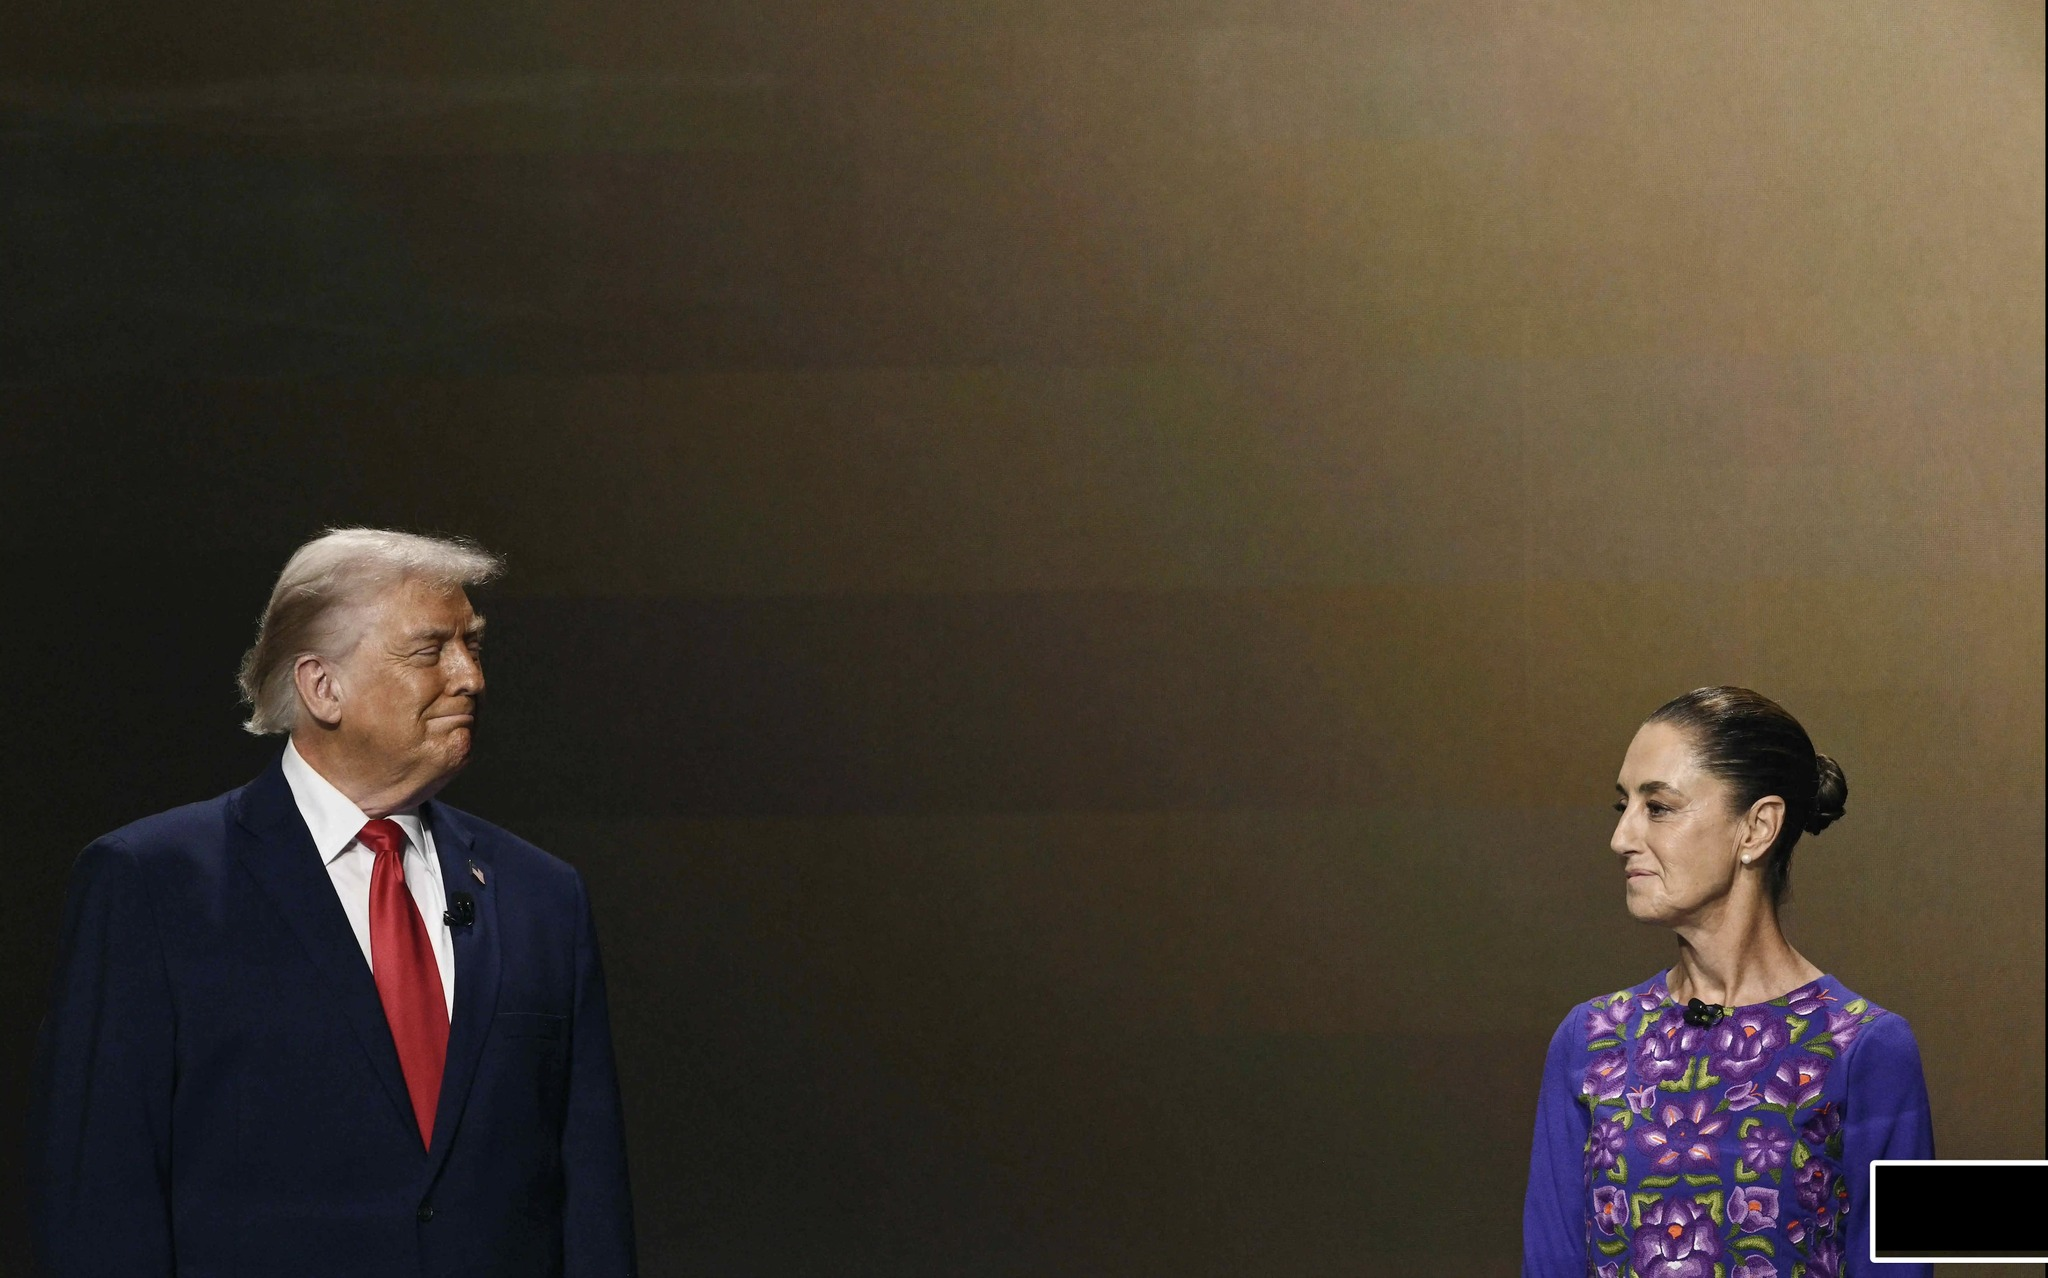
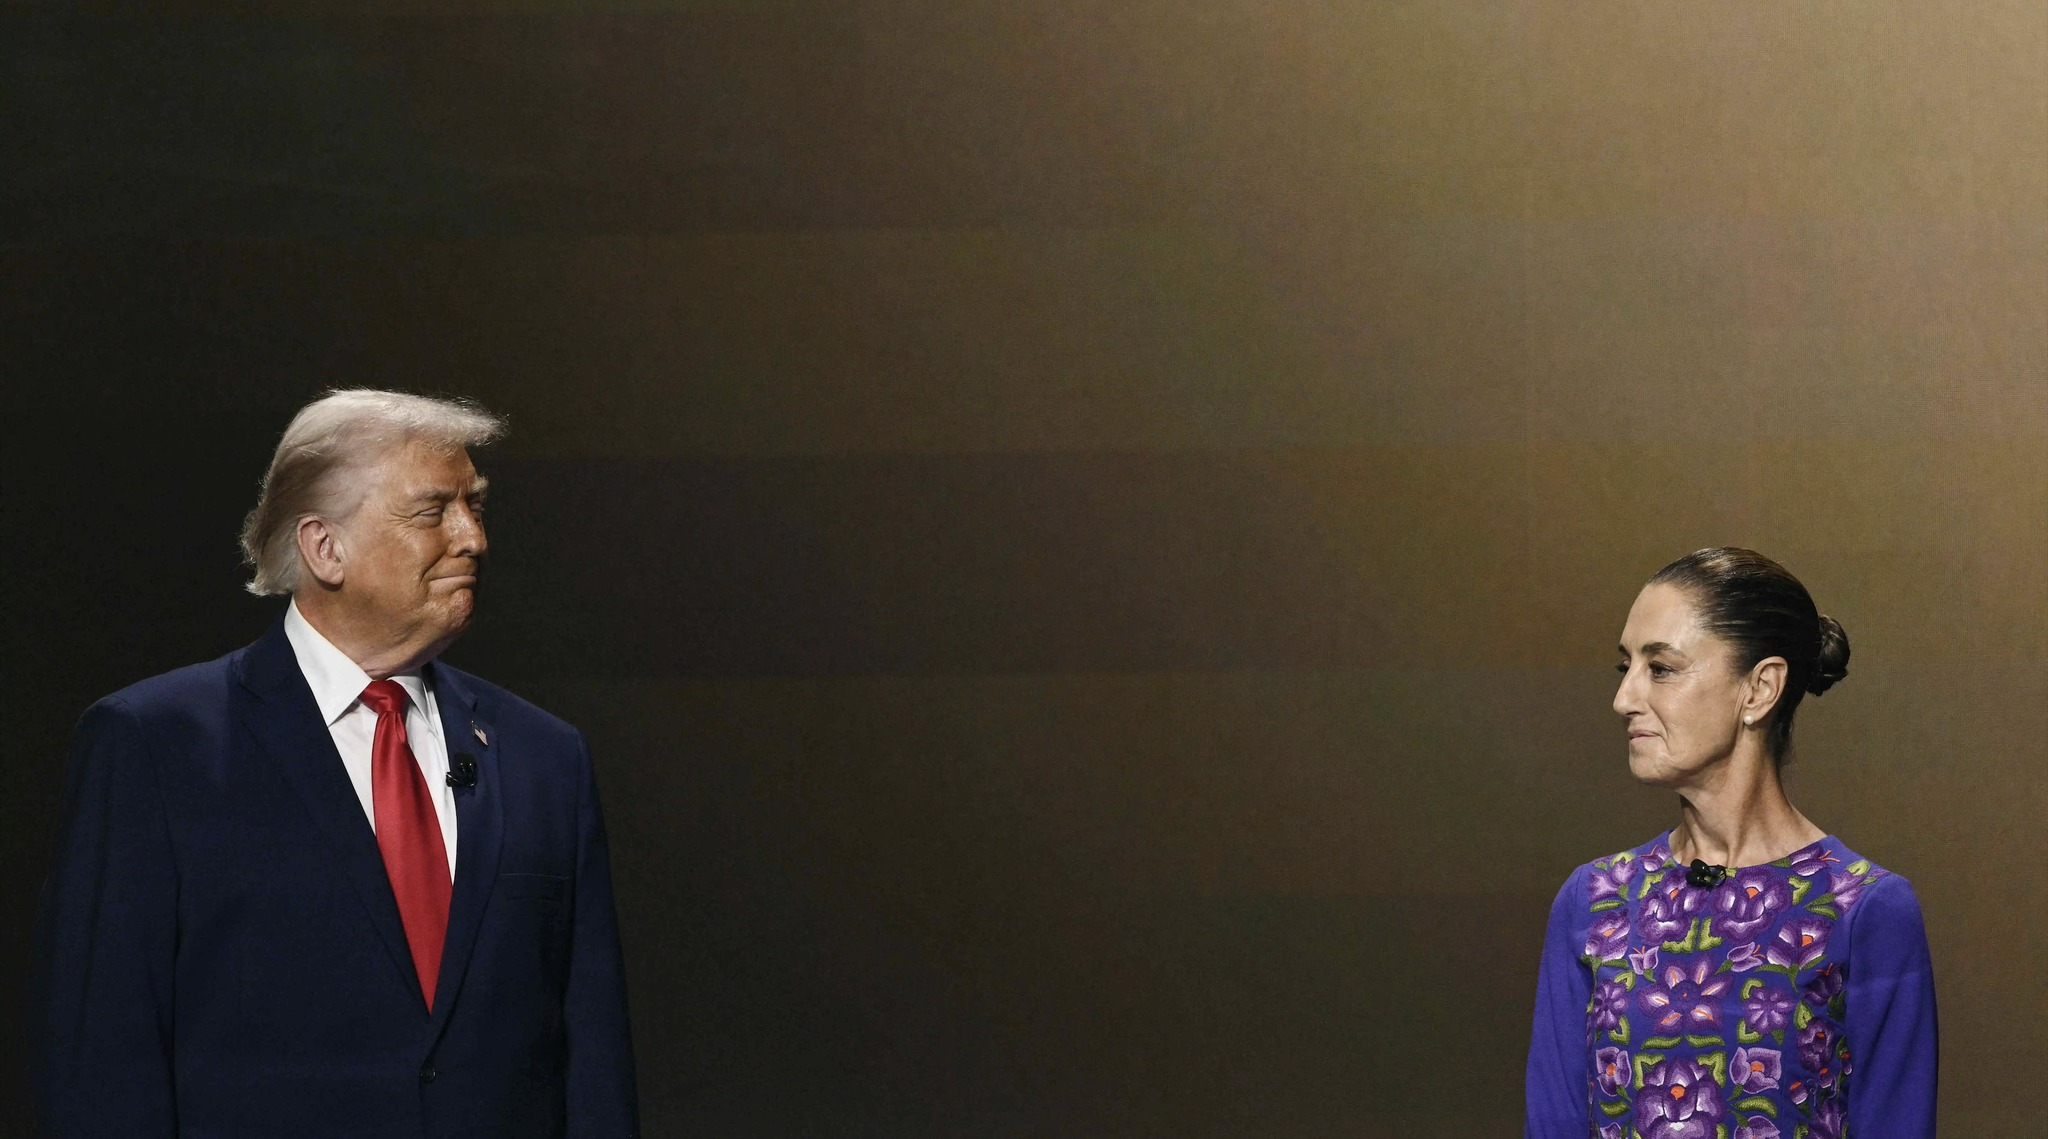
Replace Beyond the USMCA featured with clean image (no black box)

Changed region(s): [[0.75, 0.4609, 1.0, 1.0], [0.0312, 0.338, 0.2812, 0.8911], [0.6875, 0.0307, 0.7188, 0.0922]]

diff --git a/translations/2026-08-13-beyond-the-usmca/article.html b/translations/2026-08-13-beyond-the-usmca/article.html
@@ -1,5 +1,5 @@
-<!-- wp:image {"id":19174,"sizeSlug":"large"} -->
-<figure class="wp-block-image"><img src="https://mexicosolidarity.com/wp-content/uploads/2026/08/beyond-the-usmca-large.jpg" alt="President Donald Trump and President Claudia Sheinbaum face each other on stage"/><figcaption class="wp-element-caption">Photo: AFP / Brendan Smialowski</figcaption></figure>
+<!-- wp:image {"id":19176,"sizeSlug":"large"} -->
+<figure class="wp-block-image"><img src="https://mexicosolidarity.com/wp-content/uploads/2026/08/beyond-the-usmca-large-1.jpg" alt="President Donald Trump and President Claudia Sheinbaum face each other on stage"/><figcaption class="wp-element-caption">Photo: AFP / Brendan Smialowski</figcaption></figure>
 <!-- /wp:image -->
 
 <!-- wp:paragraph -->
